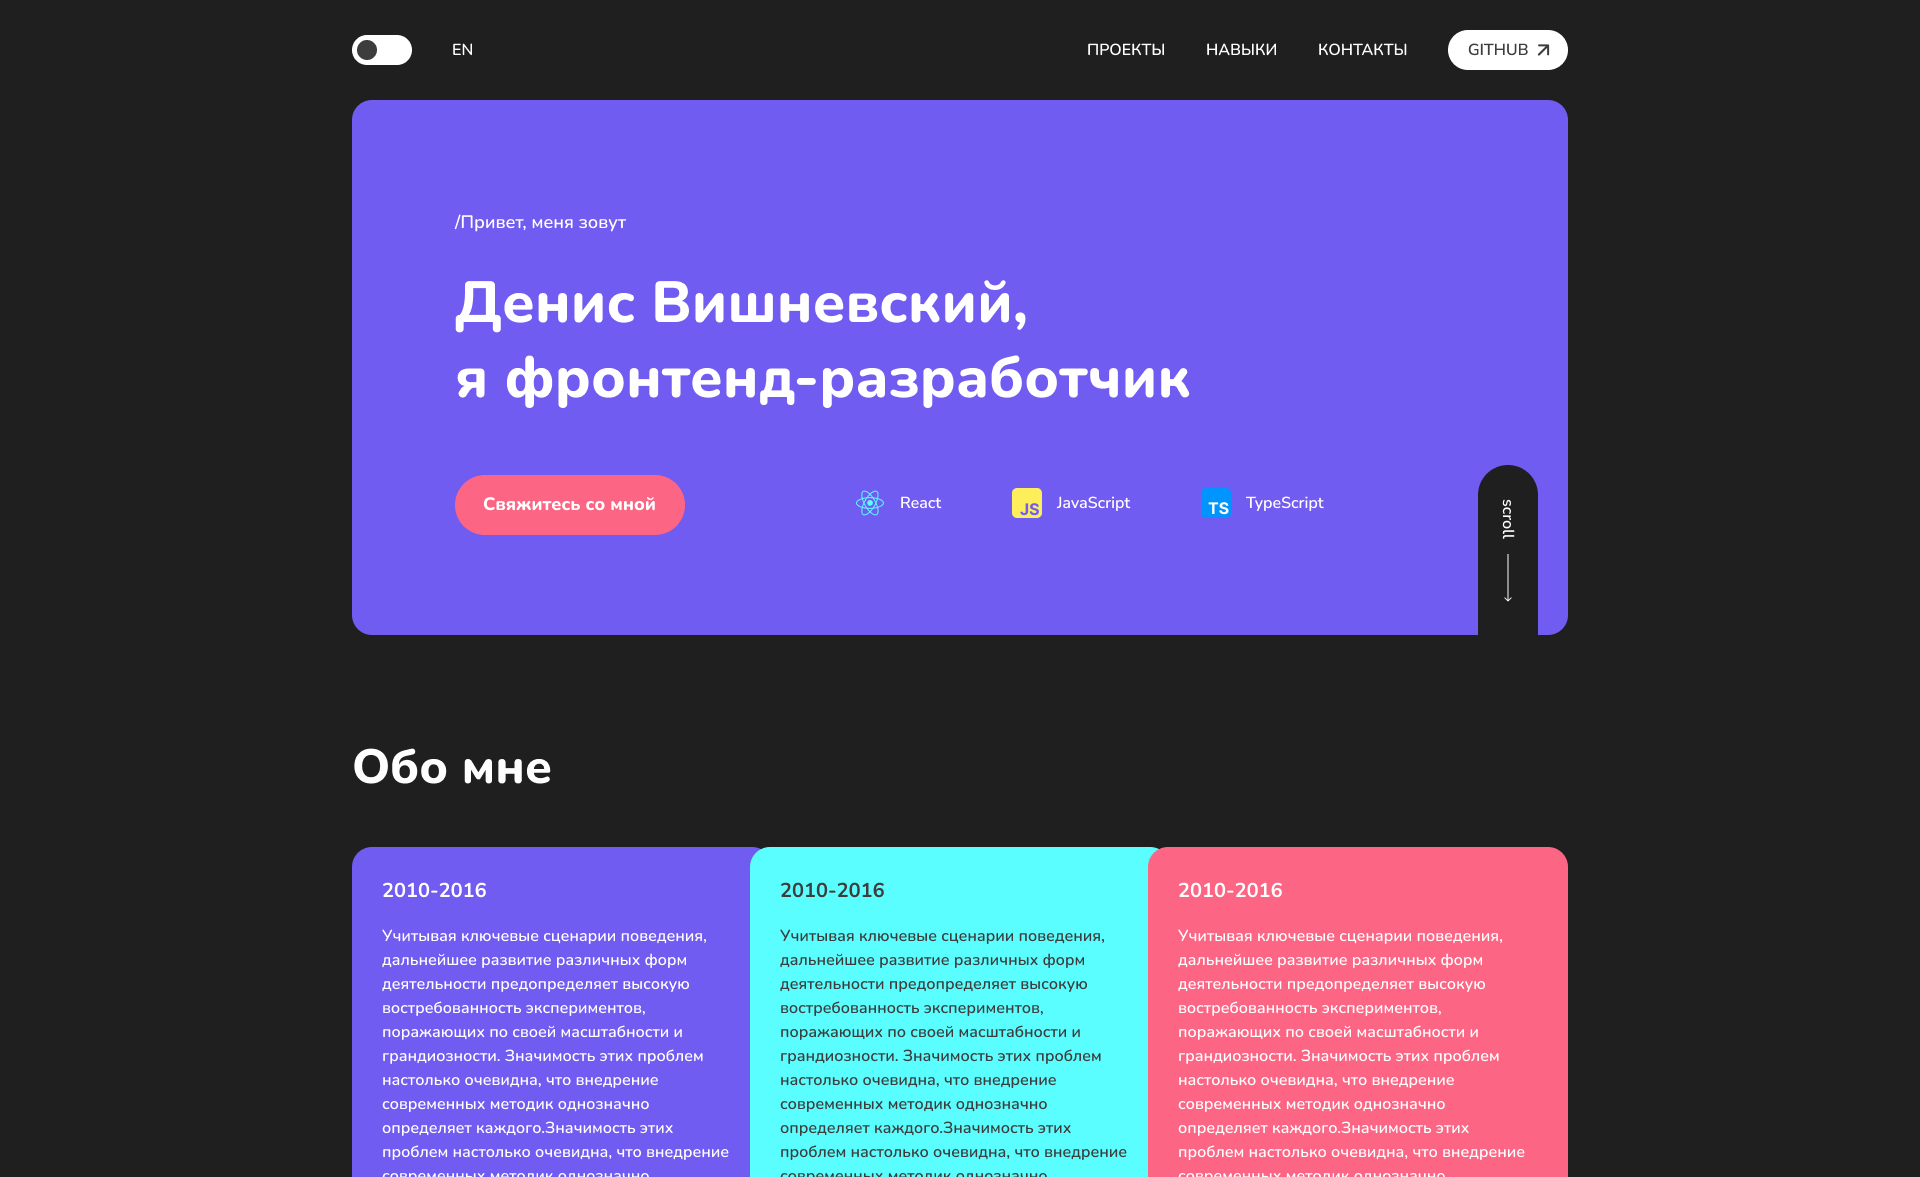
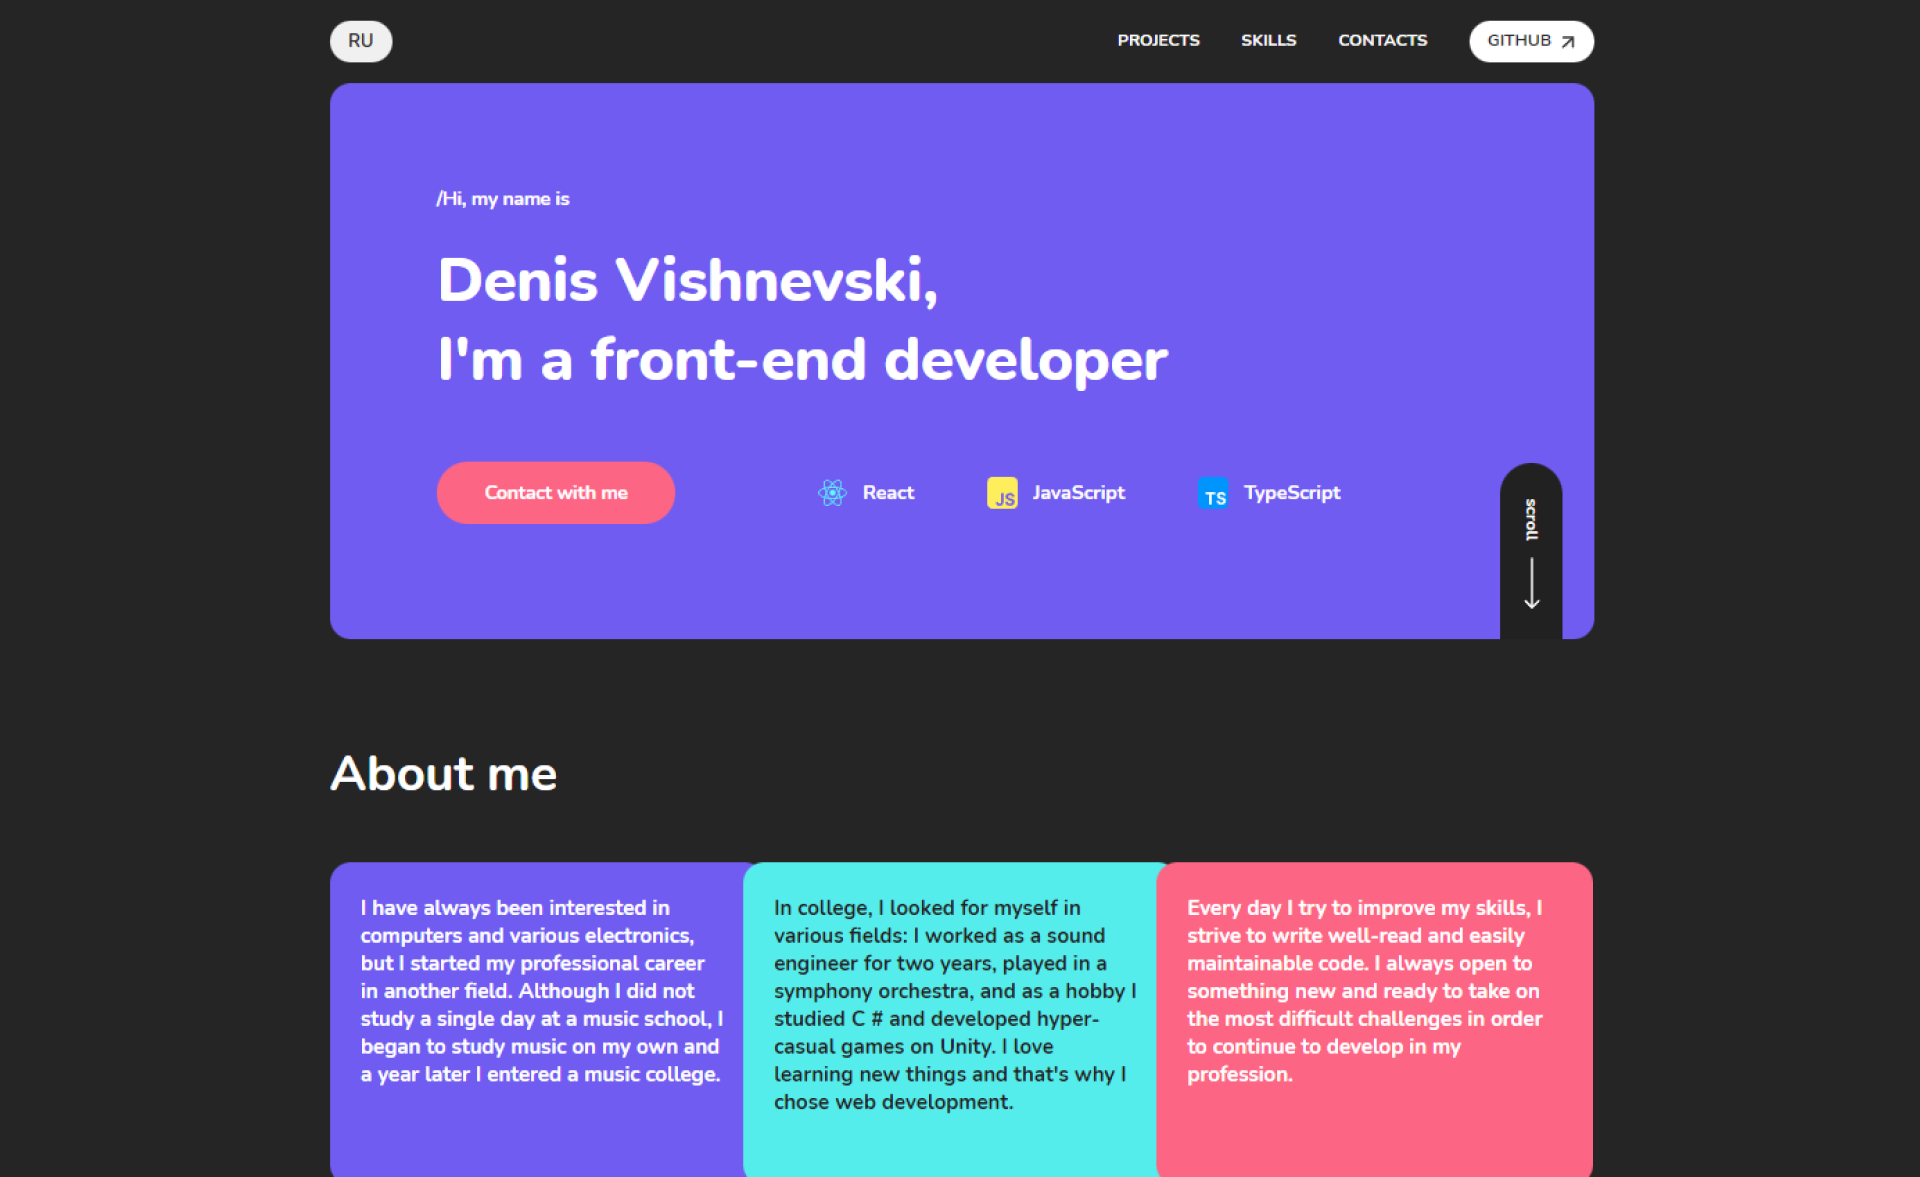
Site color change, bug fixes

diff --git a/src/components/Header.tsx b/src/components/Header.tsx
@@ -20,7 +20,6 @@ function Header(props: Props) {
    const { translate, changeLanguage } = props
    const [languageIcon, setLanguageIcon] = useState<string>("EN");
    const [languageButtonOffset, setLanguageButtonOffset] = useState<number>(0);
-   const [languageButtonTransition, setLanguageButtonTransition] = useState<string>('all 1s ease-in-out');
 
    useEffect(() => {
       if (i18next.language === 'en') {
@@ -49,13 +48,9 @@ function Header(props: Props) {
       if (isOpen) {
          window.addEventListener('resize', languageButtonOffsetUpdate);
          languageButtonOffsetUpdate();
-         setTimeout(() => {
-            setLanguageButtonTransition('none');
-         }, 1000)
       }
       else {
          window.removeEventListener('resize', languageButtonOffsetUpdate);
-         setLanguageButtonTransition('all 1s ease-in-out');
          setLanguageButtonOffset(0);
       }
    }
@@ -63,8 +58,8 @@ function Header(props: Props) {
       <header>
          <div className='highest_bar'>
             <div className="header_buttons">
-               <HamburgerMenu isAction={hamburgerMenuIsAction} translate={translate}/>
-               <button className="language_switcher" style={{ left: languageButtonOffset, transition: languageButtonTransition }} onClick={switchLanguage}>
+               <HamburgerMenu isAction={hamburgerMenuIsAction} translate={translate} />
+               <button className="language_switcher" style={{ left: languageButtonOffset }} onClick={switchLanguage}>
                   {languageIcon}
                </button>
             </div>
@@ -75,7 +70,7 @@ function Header(props: Props) {
                   <a href="#contacts">{translate("CONTACTS")}</a>
                </nav>
                <div style={{ position: 'relative', left: languageButtonOffset, transition: 'all .7s ease-in-out' }}>
-                  <GithubButton />
+                  <GithubButton link='https://github.com/DenisVishnevski'/>
                </div>
             </div>
          </div>

diff --git a/src/data/portfolio.ts b/src/data/portfolio.ts
@@ -10,7 +10,8 @@ export const portfolioBlocks: object[] = [
         title: 'Landing for a photographer',
         id: 'portfolio',
         technologies: [programmingBlocksArray[2], programmingBlocksArray[3]],
-        websiteLink: 'https://andreyrudenko20221008152249.azurewebsites.net/',
+        websiteLink: 'http://denisvishnevski-001-site1.ftempurl.com/',
+        githubLink: 'https://github.com/DenisVishnevski/AndreyRudenko',
         desktopImage: andreyRudenkoDesktop,
         mobileImage: andreyRudenkoMobile
     },
@@ -18,6 +19,7 @@ export const portfolioBlocks: object[] = [
         title: 'Personal portfolio website',
         technologies: [programmingBlocksArray[2], layoutingBlocksArray[2], {title: 'i18next', titleColor: '#12BFAF'}],
         websiteLink: '#1',
+        githubLink: 'https://github.com/DenisVishnevski/denis_vishnevski_project',
         desktopImage: denisVishnevskiDesktop,
         mobileImage: denisVishnevskiMobile
     },

diff --git a/src/scss/Header.scss b/src/scss/Header.scss
@@ -1,4 +1,5 @@
 $buttonColor: #FD6584;
+$backgroundColor: #212121;
 
 .highest_bar {
     width: 100%;
@@ -19,6 +20,7 @@ $buttonColor: #FD6584;
         border-radius: 20px;
         color: #2C2C2C;
         cursor: pointer;
+        transition: all 1s ease-in-out;
         z-index: 5;
     }
 }
@@ -101,7 +103,7 @@ $buttonColor: #FD6584;
     position: absolute;
     bottom: 0;
     right: 30px;
-    background-color: #2C2C2C;
+    background-color: $backgroundColor;
     width: 60px;
     height: 170px;
     border-radius: 100px 100px 0 0;
@@ -166,7 +168,7 @@ $buttonColor: #FD6584;
 @media screen and (max-width: 767px) {
     .highest_bar {
         .language_switcher {
-            background-color: #2C2C2C;
+            background-color: $backgroundColor;
             color: #FFFFFF;
             cursor: pointer;
         }

diff --git a/src/components/UI/DroprightMenu.tsx b/src/components/UI/DroprightMenu.tsx
@@ -7,16 +7,13 @@ import emailIcon from '../../assets/images/emailIcon.svg';
 import ContactButton from './ContactButton';
 
 interface Props {
-    isOpenMenu: boolean
+    isOpenMenu: boolean,
     translate: (value: string) => string,
     onNavClick: () => void
 }
-interface State {
-    droprightMenuHeight: number
-}
 function DroprightMenu(props: Props) {
     const { translate, isOpenMenu, onNavClick } = props
-    const [menuHeight, setMenuHeight] = useState<number>(100);
+    const [menuHeight, setMenuHeight] = useState<number>(.001);
     const [contactsBlocksOffset, setContactsBlocksOffset] = useState<number>(-200);
 
     useEffect(() => {

diff --git a/src/components/Portfolio.tsx b/src/components/Portfolio.tsx
@@ -48,7 +48,7 @@ function Portfolio(props: { translate: (value: string) => string }) {
                                 </div>
                             </div>
                             <div className="portfolio_buttons">
-                                <GithubButton />
+                                <GithubButton link={block.githubLink}/>
                                 <a href={block.websiteLink} className='portfolio_link' target="_blank">
                                     {translate("Go to website")}
                                 </a>

diff --git a/src/components/UI/GithubButton.tsx b/src/components/UI/GithubButton.tsx
@@ -2,9 +2,9 @@ import * as React from 'react';
 import '../../scss/UI/GithubButton.scss';
 import linkArrow from '../../assets/images/linkArrow.svg';
 
-function GithubButton() {
+function GithubButton(props: {link: string}) {
     return (
-        <a className="github_button" href="https://github.com/DenisVishnevski" target="_blank">
+        <a className="github_button" href={props.link} target="_blank">
             <h3>GITHUB</h3>
             <img src={linkArrow} alt="Мой GitHub" />
         </a>

diff --git a/src/components/Footer.tsx b/src/components/Footer.tsx
@@ -28,7 +28,7 @@ function Footer(props: { translate: (value: string) => string }) {
                         <img src={linkArrow} alt="Мой GitHub" />
                     </a>
                 </div>
-                <h3>Дизайн сайта @sanya_uiux</h3>
+                <h3>Дизайн сайта <a href="https://www.behance.net/11c1d013">@sanya_uiux</a></h3>
             </div>
         </footer>
     );

diff --git a/public/index.html b/public/index.html
@@ -1,5 +1,5 @@
 <!DOCTYPE html>
-<html lang="en">
+<html lang="ru">
   <head>
     <meta charset="utf-8" />
     <link rel="icon" href="%PUBLIC_URL%/favicon.ico" />
@@ -13,7 +13,7 @@
 
     <link rel="manifest" href="%PUBLIC_URL%/manifest.json" />
 
-    <title>React App</title>
+    <title>Denis Vishnevski</title>
   </head>
   <body>
     <noscript>You need to enable JavaScript to run this app.</noscript>

diff --git a/src/scss/UI/HamburgerMenu.scss b/src/scss/UI/HamburgerMenu.scss
@@ -68,7 +68,7 @@
     flex-direction: column;
     align-items: center;
     justify-content: space-between;
-    background-color: #2C2C2C;
+    background-color: #212121;
     transition: all .5s ease-in-out;
 
     &> :first-child {
@@ -97,6 +97,7 @@
 
         a {
             display: flex;
+            justify-content: center;
 
             img {
                 width: 50px;

diff --git a/src/scss/Footer.scss b/src/scss/Footer.scss
@@ -10,6 +10,13 @@ footer {
         display: flex;
         align-items: center;
         flex-direction: column;
+        h3 {
+            a {
+                &:hover {
+                    color: #55ECEC;
+                }
+            }
+        }
     }
 }
 .contacts_block {

diff --git a/src/scss/Portfolio.scss b/src/scss/Portfolio.scss
@@ -18,7 +18,7 @@ $buttonColor: #FD6584;
     height: 300px;
     display: flex;
     justify-content: space-between;
-    background-color: #3D3D3E;
+    background-color: #3a3a3a;
     border-radius: 20px;
     transition: all .5s ease-in-out;
     margin-bottom: 30px;

diff --git a/src/scss/AboutMe.scss b/src/scss/AboutMe.scss
@@ -20,7 +20,7 @@
     & > :nth-child(even) {
         @extend %blocks;
         background-color: #55ECEC;
-        color: #2C2C2C;
+        color: #212121;
     }
     & > :last-child {
         @extend %blocks;
